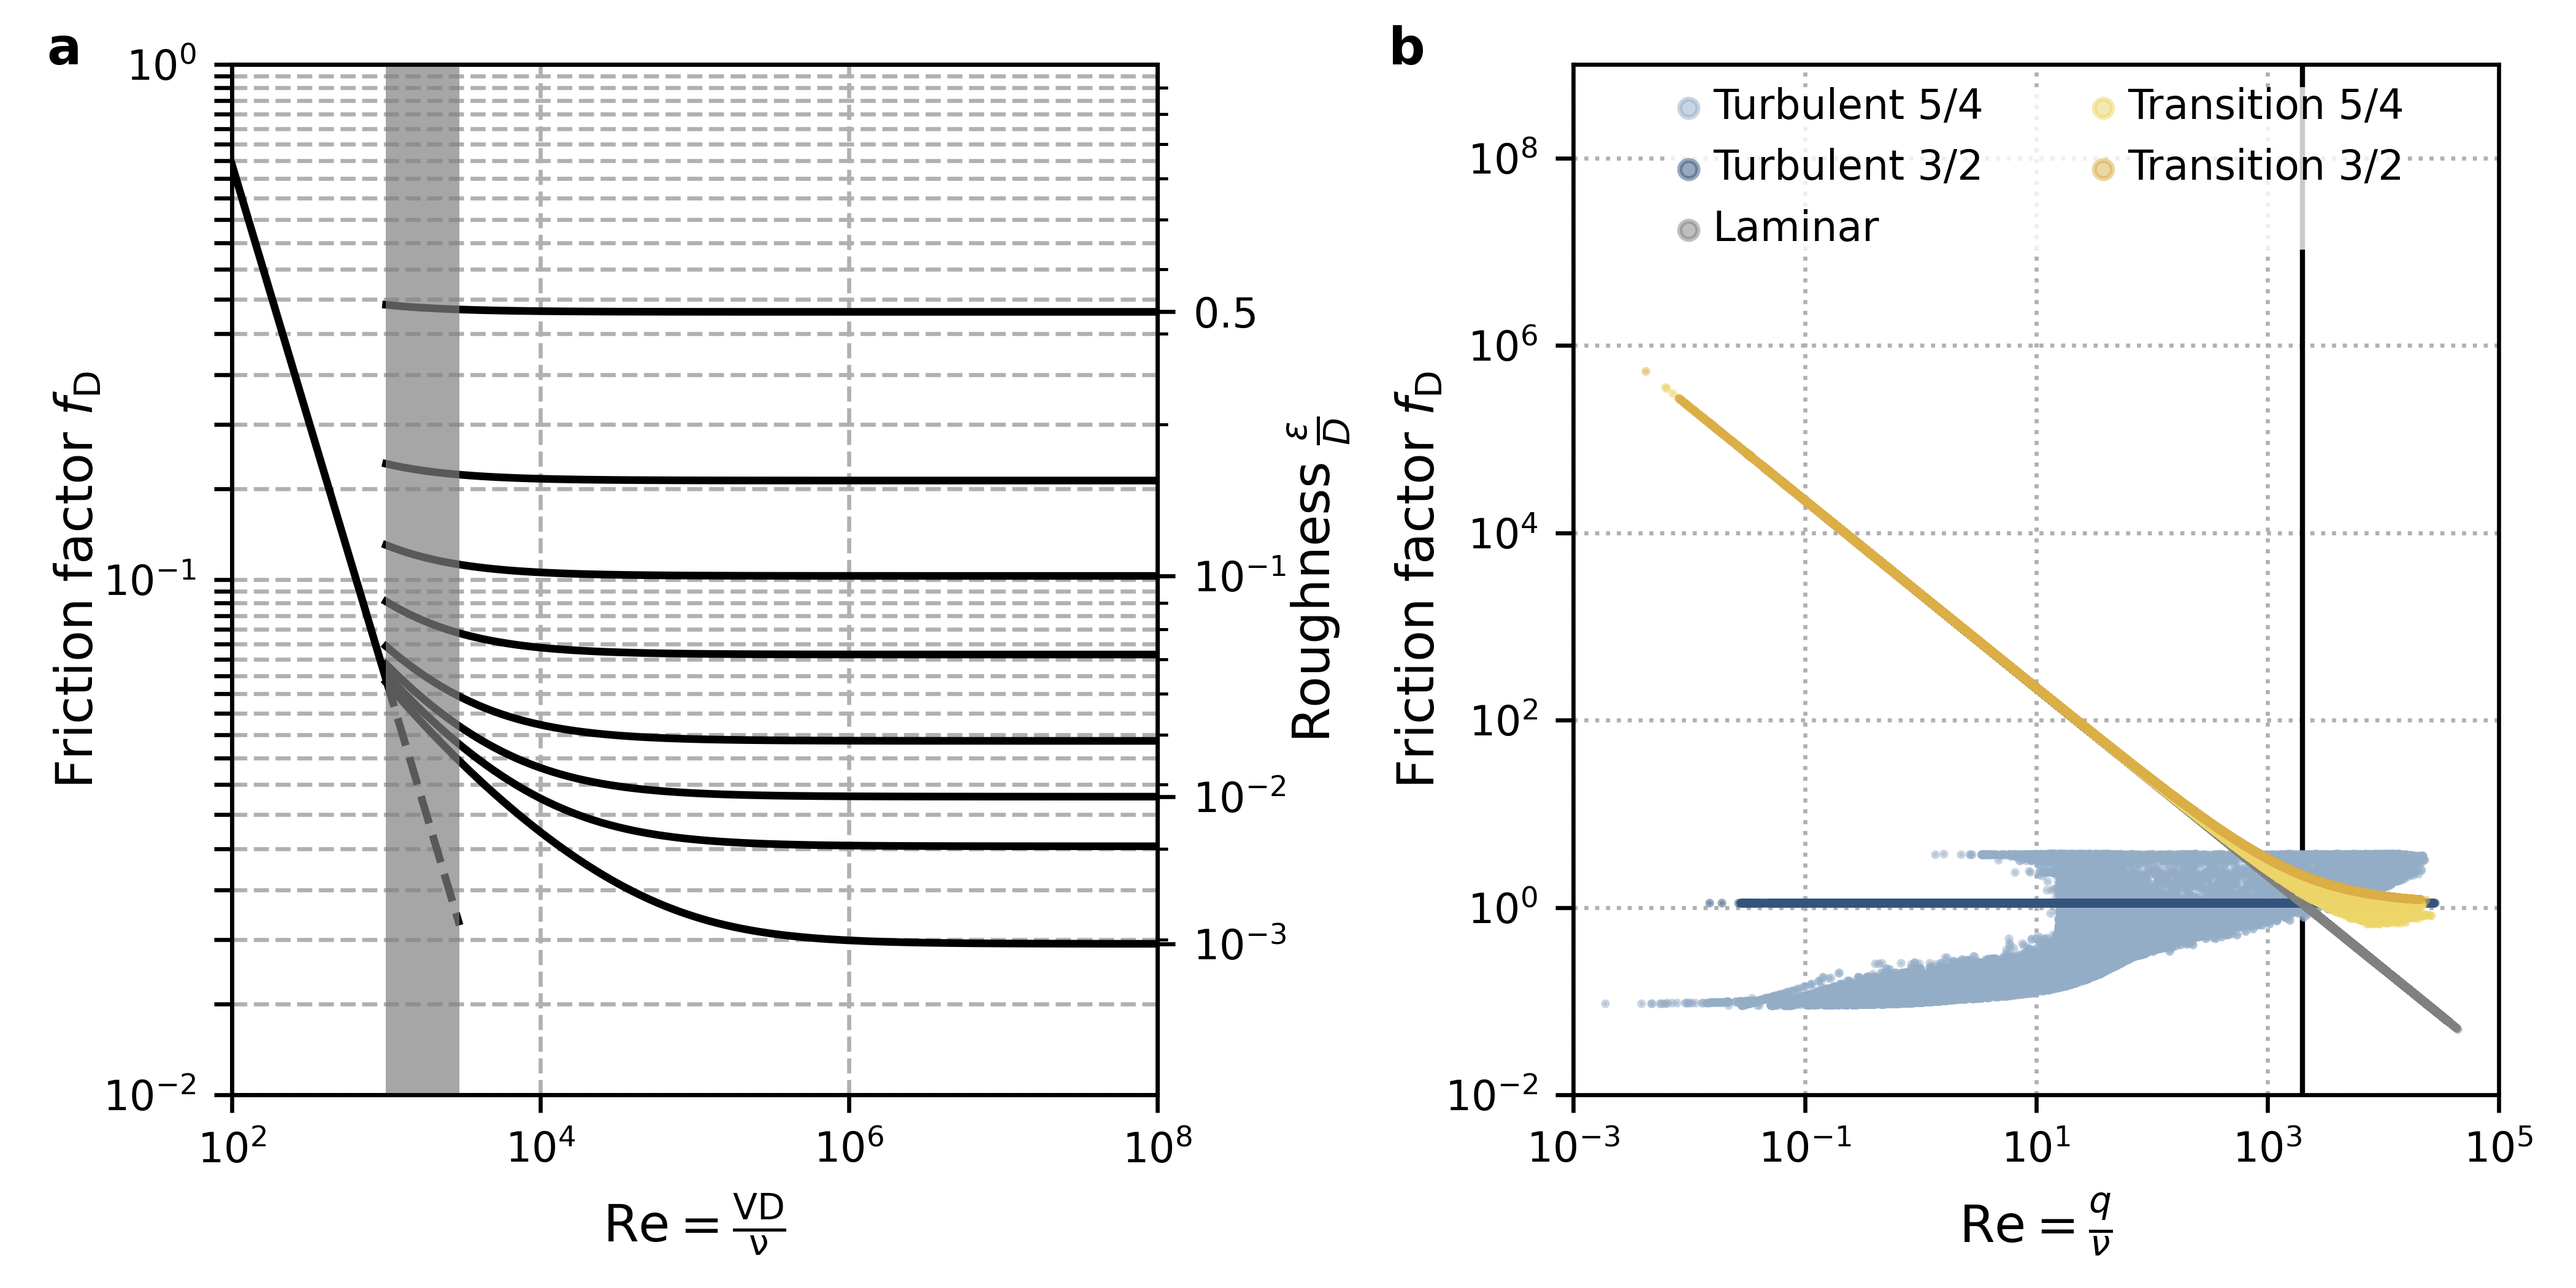
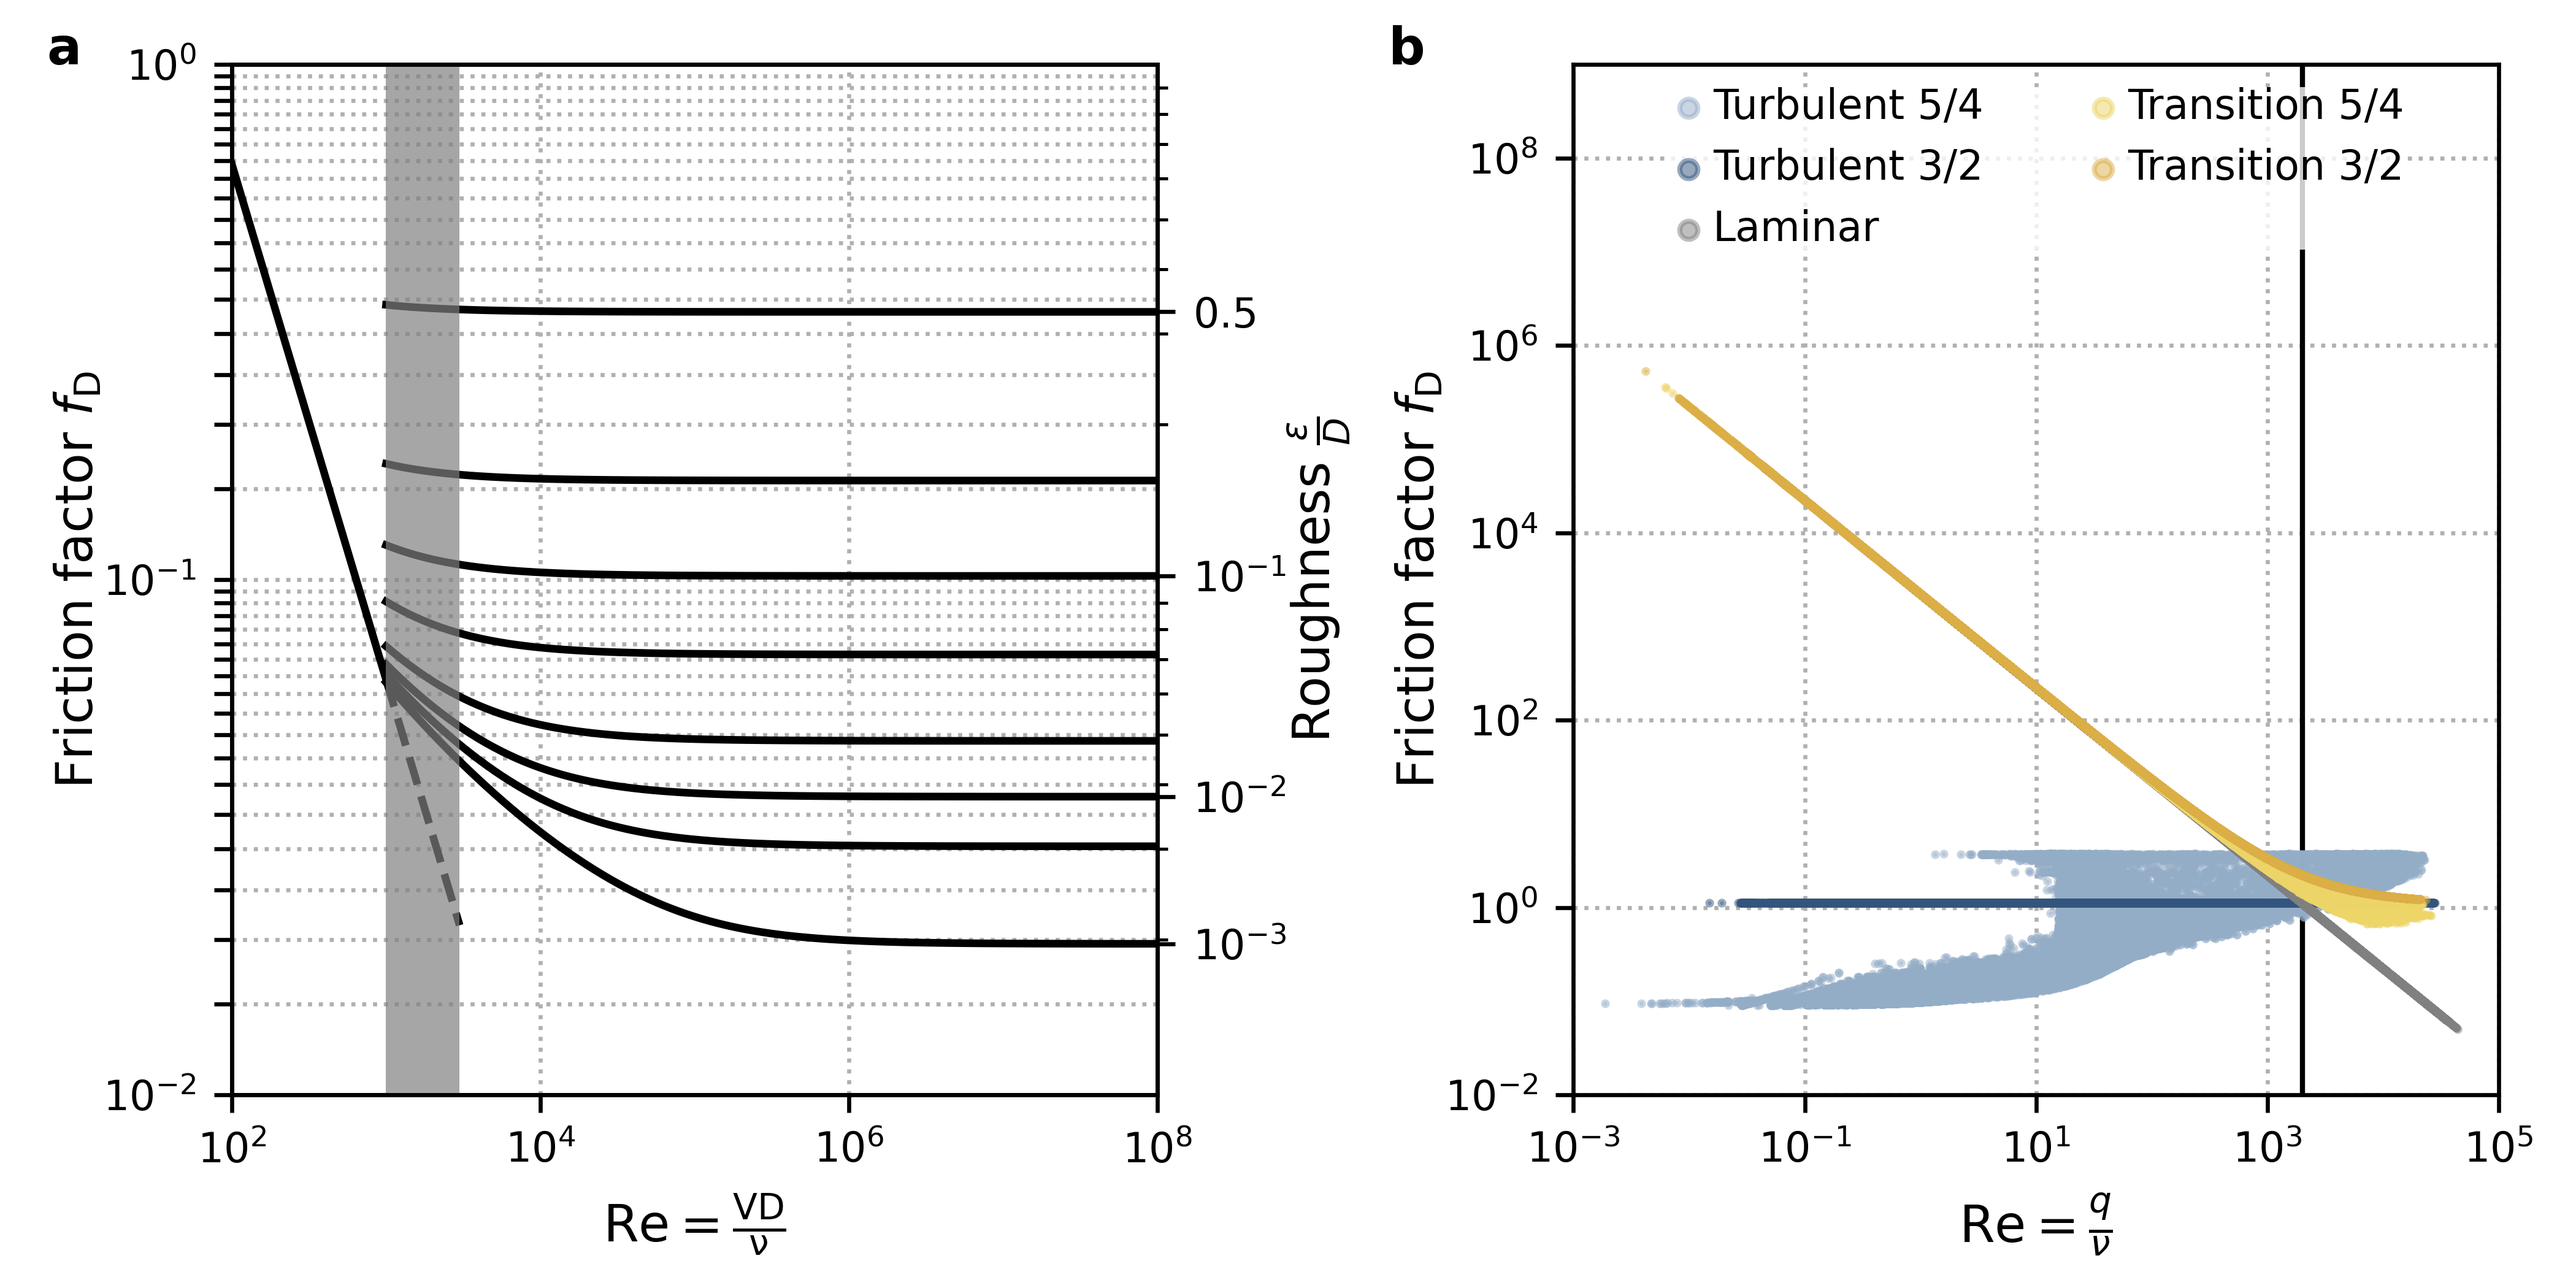
figs

Changed region(s): [[0.1871, 0.4643, 0.4055, 0.5262], [0.1871, 0.0619, 0.4055, 0.0929], [0.2495, 0.1238, 0.2807, 0.1548]]

diff --git a/analysis/plot_moody_scatter.py b/analysis/plot_moody_scatter.py
@@ -73,7 +73,7 @@ laminar_transition = 64/Re_transition
 ax_theory.loglog(Re, darcy_friction.T, color='k')
 ax_theory.loglog(Re_laminar, laminar_friction, color='k')
 ax_theory.loglog(Re_transition, laminar_transition, color='k', linestyle='--')
-ax_theory.grid(linestyle='--')
+ax_theory.grid(linestyle=':')
 
 ax_theory.set_yticks(list(np.arange(1e-2, 1e-1, 1e-2/2)) + list(np.arange(1e-1, 1e0 + 1e-1/2, 1e-1/2)))
 ax_theory.set_ylim([1e-2, 1e0])
